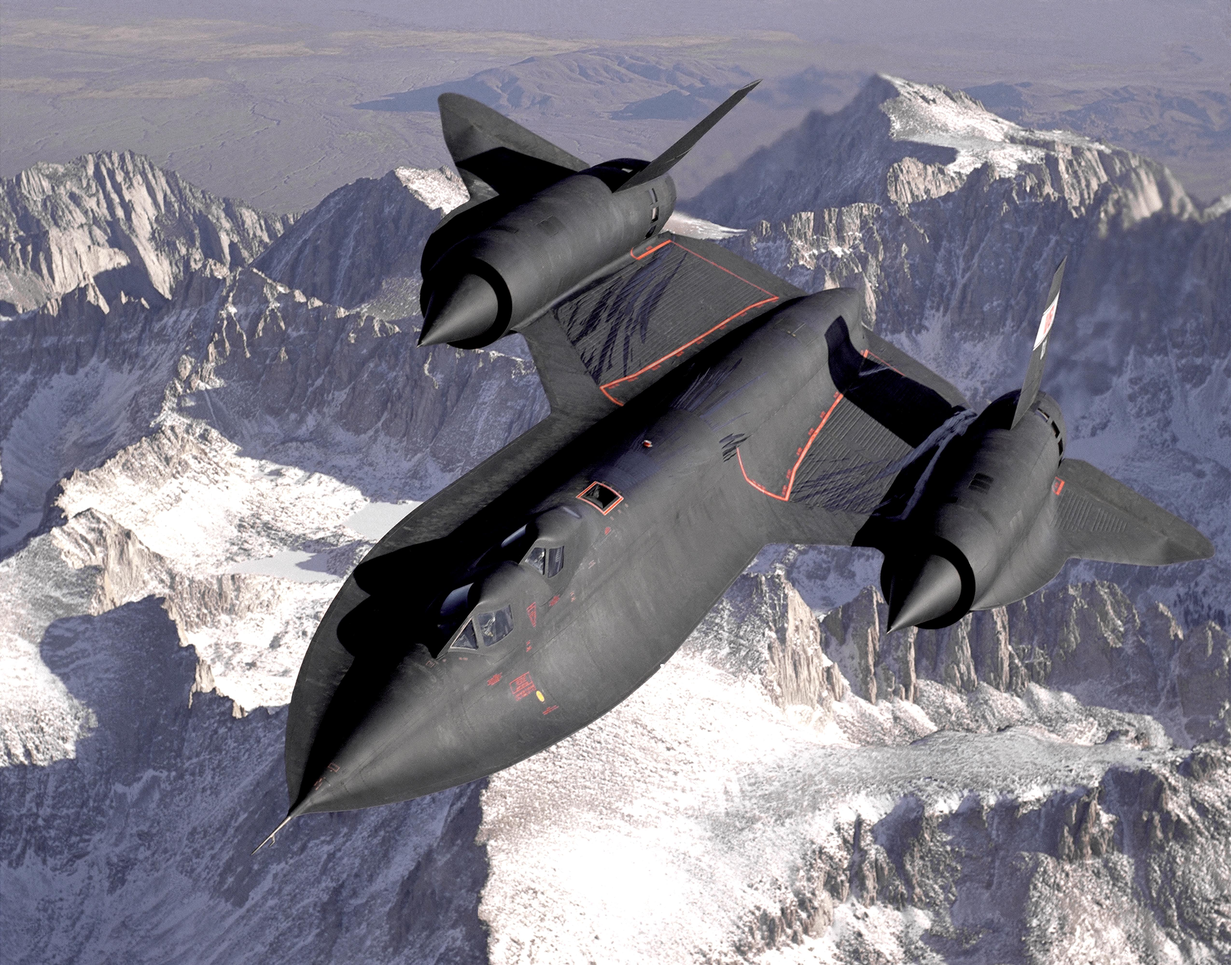
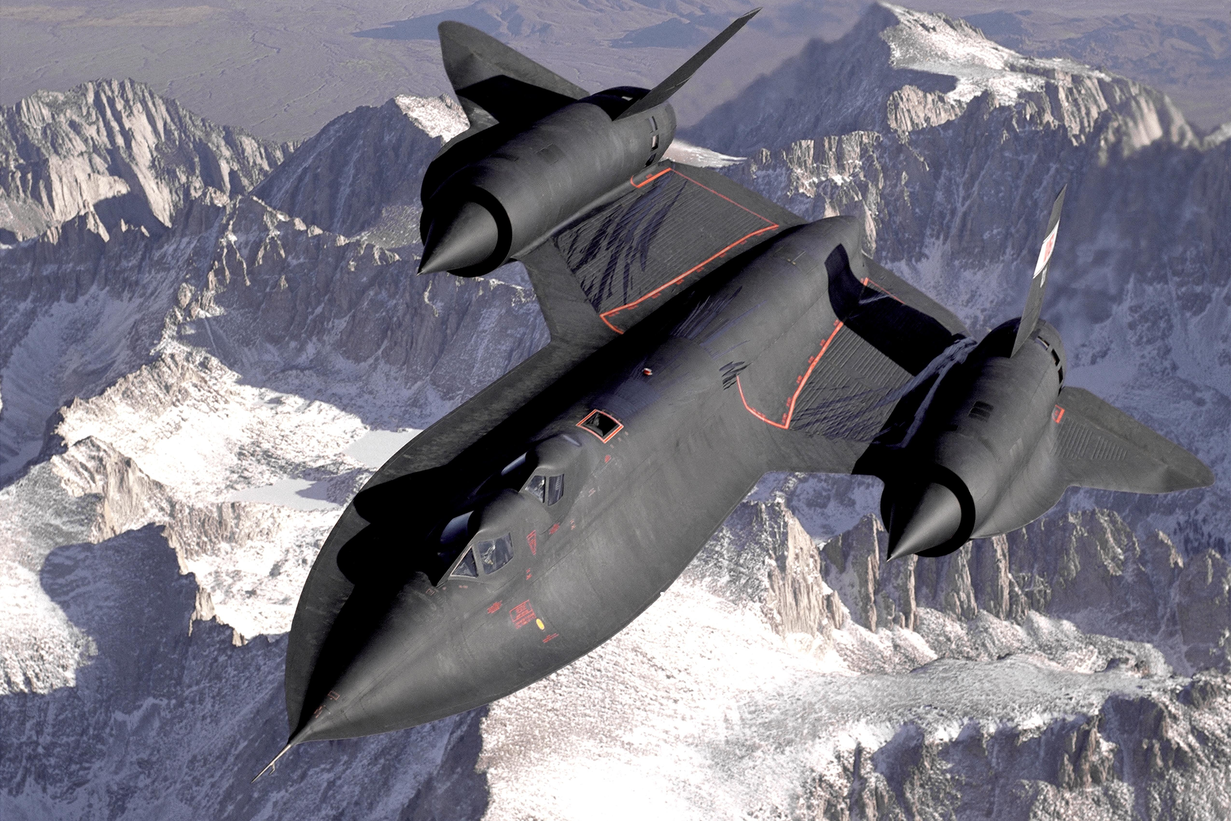
tweaked pictures in intro

diff --git a/chapters/chapter_1.tex b/chapters/chapter_1.tex
@@ -12,14 +12,14 @@ Malheureusement, les enjeux aérodynamiques et électromagnétiques sont souvent
 
 \begin{figure}[htb]
     \centering
-    \begin{subfigure}[b]{.37\linewidth}
+    \begin{subfigure}[t]{.48\linewidth}
         \centering
         \includegraphics[width=\textwidth]{images/Lockheed_SR-71_Blackbird.jpg}
         \caption{SR-71 \textsl{Blackbird}, avion de reconnaissance de la fin des années 60, conçu pour la vitesse \citep{sr71}.}
         \label{fig:sr71}
     \end{subfigure}
     ~
-    \begin{subfigure}[b]{.43\linewidth}
+    \begin{subfigure}[t]{.48\linewidth}
         \centering
         \includegraphics[width=\textwidth]{images/F-117_Nighthawk_Front.jpg}
         \caption{F-117 \textsl{Nighthawk}, avion d'attaque du début de la fin des années 70, conçu pour l'invisibilité radar \citep{f117}.}
